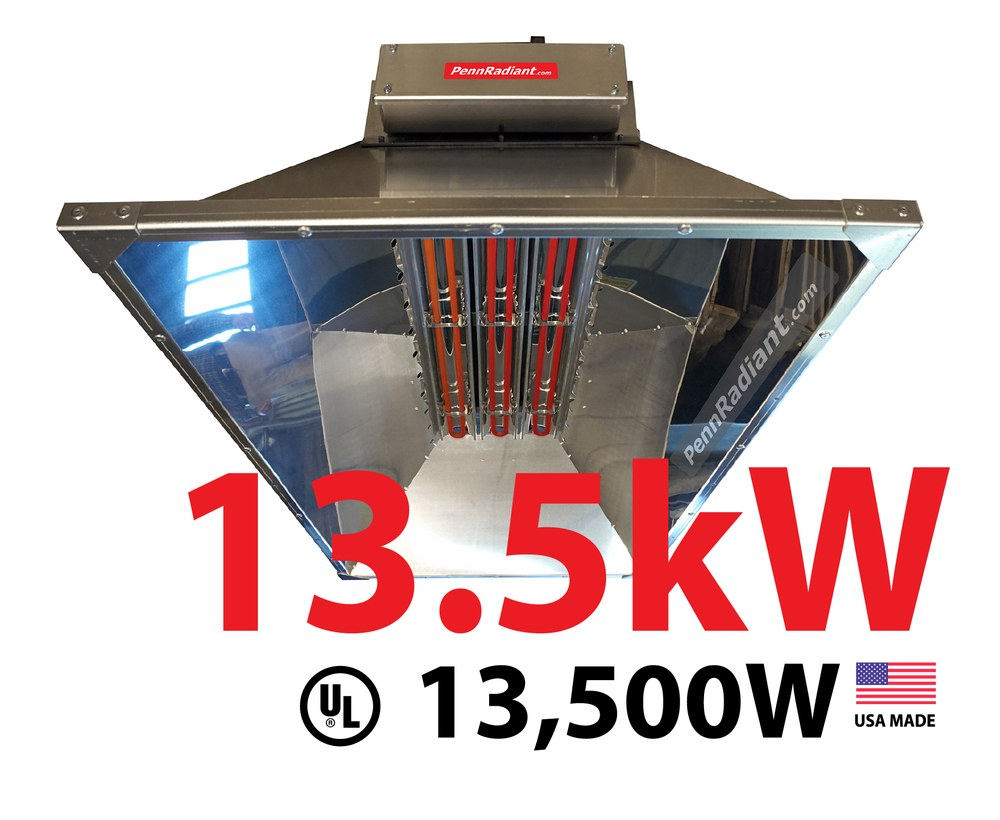
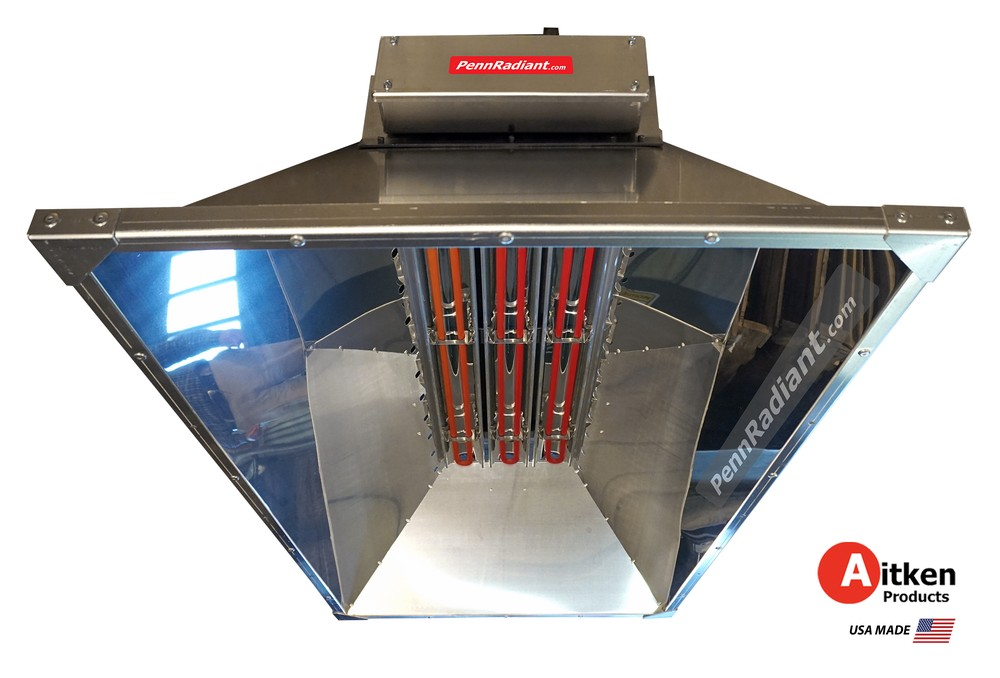
Fixed Infrared: transparent PNG OH images (no kW text), clean floating frame
- Swap the labeled web-icon tier images + hero for clean, text-free OH photos as
  transparent PNGs (2kW & 13.5kW native cutouts; 4.5kW & 6kW background-knocked-out);
  remove the white boxed frame on tier images (float w/ soft shadow)
- Refresh the electric-heating 'Fixed Infrared' small card with clean OH photos
- Bump fixed-data.js -> v=2

diff --git a/project/website/fixed-data.js b/project/website/fixed-data.js
@@ -3,7 +3,7 @@
 window.FIXED_HEATERS = [
   {
     key:"2", series:"OH", kw:"2 kW", watts:"2,000 W", btu:"6,826",
-    phase:"Single-phase", price:"708.00", img:"fixed/2kw.jpg",
+    phase:"Single-phase", price:"708.00", img:"fixed/2kw.png",
     desc:"The compact overhead workhorse. The OH 2&nbsp;kW mounts to a ceiling or wall bracket and lays a steady band of infrared exactly where you need it — entryways, single workstations, service counters and small bays. Single-phase power, one 2&nbsp;kW U-rod element, low-profile reflector.",
     variants:[
       {m:"OH2028", v:"208 V", a:"9.6 A", e:"HE20208", ss:"oh2028"},
@@ -15,7 +15,7 @@ window.FIXED_HEATERS = [
   },
   {
     key:"4.5", series:"OH", kw:"4.5 kW", watts:"4,500 W", btu:"15,359",
-    phase:"Single-phase", price:"974.00", img:"fixed/4.5kw.jpg",
+    phase:"Single-phase", price:"974.00", img:"fixed/4.5kw.png",
     desc:"Wide, even coverage from a single circuit. The OH 4.5&nbsp;kW spreads 15,000+&nbsp;BTU across a work area from overhead — assembly stations, service bays and loading doors — while still running on single-phase power. Fixed-mount, with a field-replaceable U-rod element.",
     variants:[
       {m:"OH4528", v:"208 V", a:"21.6 A", e:"HE45208", ss:"oh4528"},
@@ -27,7 +27,7 @@ window.FIXED_HEATERS = [
   },
   {
     key:"6", series:"OH", kw:"6 kW", watts:"6,000 W", btu:"20,478",
-    phase:"Three-phase", price:"1,449.00", img:"fixed/6kw.jpg",
+    phase:"Three-phase", price:"1,449.00", img:"fixed/6kw.png",
     desc:"Three-phase reach for mid-size zones. The OH 6&nbsp;kW's multi-element head throws 20,478&nbsp;BTU over a broad footprint — sized for garages, shops and warehouse aisles that need dependable overhead radiant heat with a low amp draw.",
     variants:[
       {m:"OH628", v:"208 V", a:"16.7 A", e:"HE20208", ss:"oh628"},
@@ -39,7 +39,7 @@ window.FIXED_HEATERS = [
   },
   {
     key:"13.5", series:"OH", kw:"13.5 kW", watts:"13,500 W", btu:"46,076",
-    phase:"Three-phase", price:"2,300.00", img:"fixed/13.5kw.jpg",
+    phase:"Three-phase", price:"2,300.00", img:"fixed/13.5kw.png",
     desc:"Maximum fixed output. The OH 13.5&nbsp;kW's wide angled reflector blankets large open areas with 46,000+&nbsp;BTU of instant overhead infrared — built for high-bay shops, hangars and industrial spaces. Three-phase, three-element, permanently mounted for whole-zone comfort.",
     variants:[
       {m:"OH13528",  v:"208 V", a:"37.5 A", e:"HE45208", ss:"oh13528"},

diff --git a/project/website/fixed-infrared-heaters.html b/project/website/fixed-infrared-heaters.html
@@ -21,7 +21,7 @@
 <script src="https://unpkg.com/react-dom@18.3.1/umd/react-dom.development.js" integrity="sha384-u6aeetuaXnQ38mYT8rp6sbXaQe3NL9t+IBXmnYxwkUI2Hw4bsp2Wvmx4yRQF1uAm" crossorigin="anonymous"></script>
 <script src="https://unpkg.com/@babel/standalone@7.29.0/babel.min.js" integrity="sha384-m08KidiNqLdpJqLq95G/LEi8Qvjl/xUYll3QILypMoQ65QorJ9Lvtp2RXYGBFj1y" crossorigin="anonymous"></script>
   <link rel="shortcut icon" href="favicon.ico">
-<script src="fixed-data.js?v=1"></script>
+<script src="fixed-data.js?v=2"></script>
 <style>
 .pih-hero{background:linear-gradient(180deg,var(--prp-gray-100,#f6f7f9),#fff);border-bottom:1px solid var(--prp-gray-100,#eef0f2)}
 .pih-hero .wrap{display:grid;grid-template-columns:1fr 1fr;gap:26px;align-items:center;padding:38px 0 30px}
@@ -36,10 +36,10 @@
 .pih-badge b{color:var(--prp-red)}
 .pih{display:grid;grid-template-columns:.9fr 1.1fr;gap:36px;align-items:center;padding:8px 0}
 .pih.rev{grid-template-columns:1.1fr .9fr}
-.pih.rev .pih-pic{order:2}
+.pih.rev .pih-pic{display:flex;align-items:center;justify-content:center;padding:8px}
 @media(max-width:820px){.pih,.pih.rev{grid-template-columns:1fr;gap:18px}.pih.rev .pih-pic{order:0}}
 .pih-pic{background:#fff;border:1px solid var(--prp-gray-150);border-radius:16px;display:flex;align-items:center;justify-content:center;padding:14px}
-.pih-pic img{max-width:100%;max-height:360px;object-fit:contain}
+.pih-pic img{max-width:100%;max-height:340px;object-fit:contain;filter:drop-shadow(0 12px 24px rgba(0,0,0,.13))}
 .pih-eyebrow{color:var(--prp-red);font-weight:800;text-transform:uppercase;letter-spacing:.05em;font-size:12px}
 .pih h2{font-size:27px;margin:5px 0 4px}
 .pih-sub{font-size:13.5px;color:var(--fg-3,#7a8794);font-weight:700;margin:0 0 12px}
@@ -145,7 +145,7 @@ function App(){
             <span className="pih-badge">UL · USA made</span>
           </div>
         </div>
-        <div className="pic"><img src={A+"/products/fixed/hero.jpg"} alt="Aitken OH fixed overhead infrared heater — 13.5 kW"/></div>
+        <div className="pic"><img src={A+"/products/fixed/hero.png"} alt="Aitken OH fixed overhead infrared heater — 13.5 kW"/></div>
       </div></section>
       <div className="wrap crumb"><a href="index.html">Home</a><I.chevR width="14" height="14"/><a href="electric-heating.html">Electric Heating</a><I.chevR width="14" height="14"/><span>Fixed Infrared Heaters</span></div>
 

diff --git a/project/website/search.html b/project/website/search.html
@@ -16,7 +16,7 @@
 <script src="aitken-data.js?v=1"></script>
 <script src="fostoria-data.js?v=1"></script>
 <script src="portable-data.js?v=1"></script>
-<script src="fixed-data.js?v=1"></script>
+<script src="fixed-data.js?v=2"></script>
 <script src="quartz-data.js?v=1"></script>
 <script src="search-index.js?v=1"></script>
 <style>
